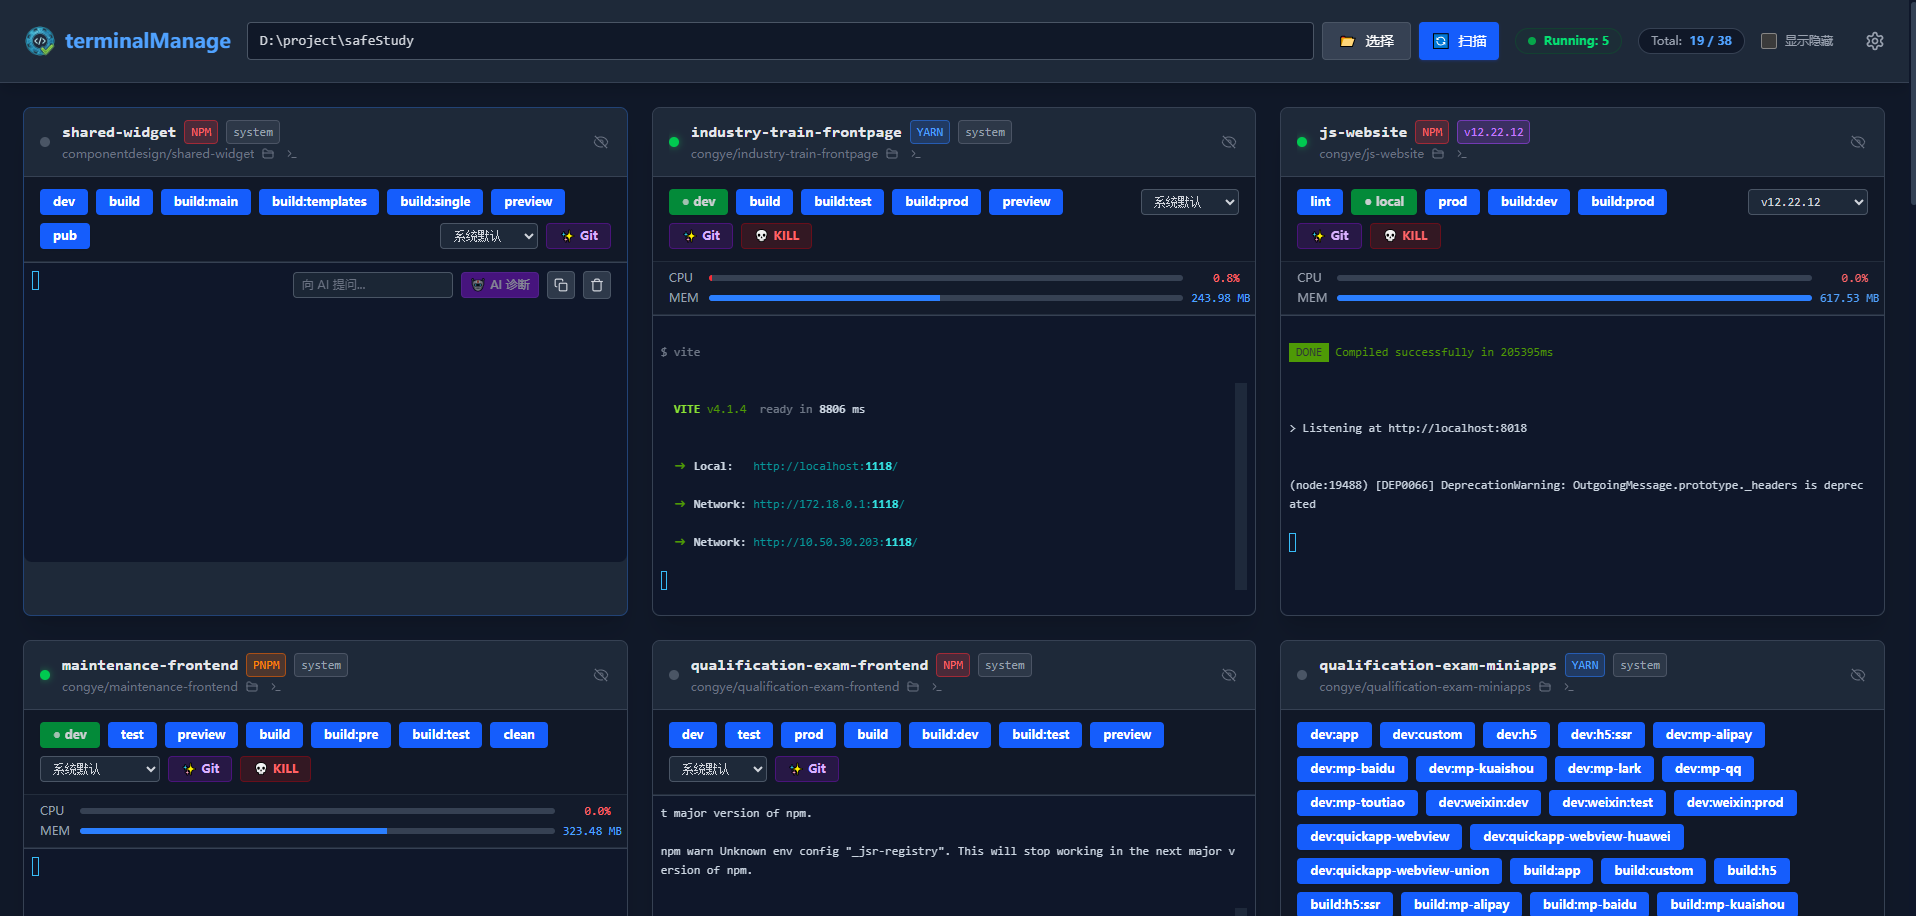
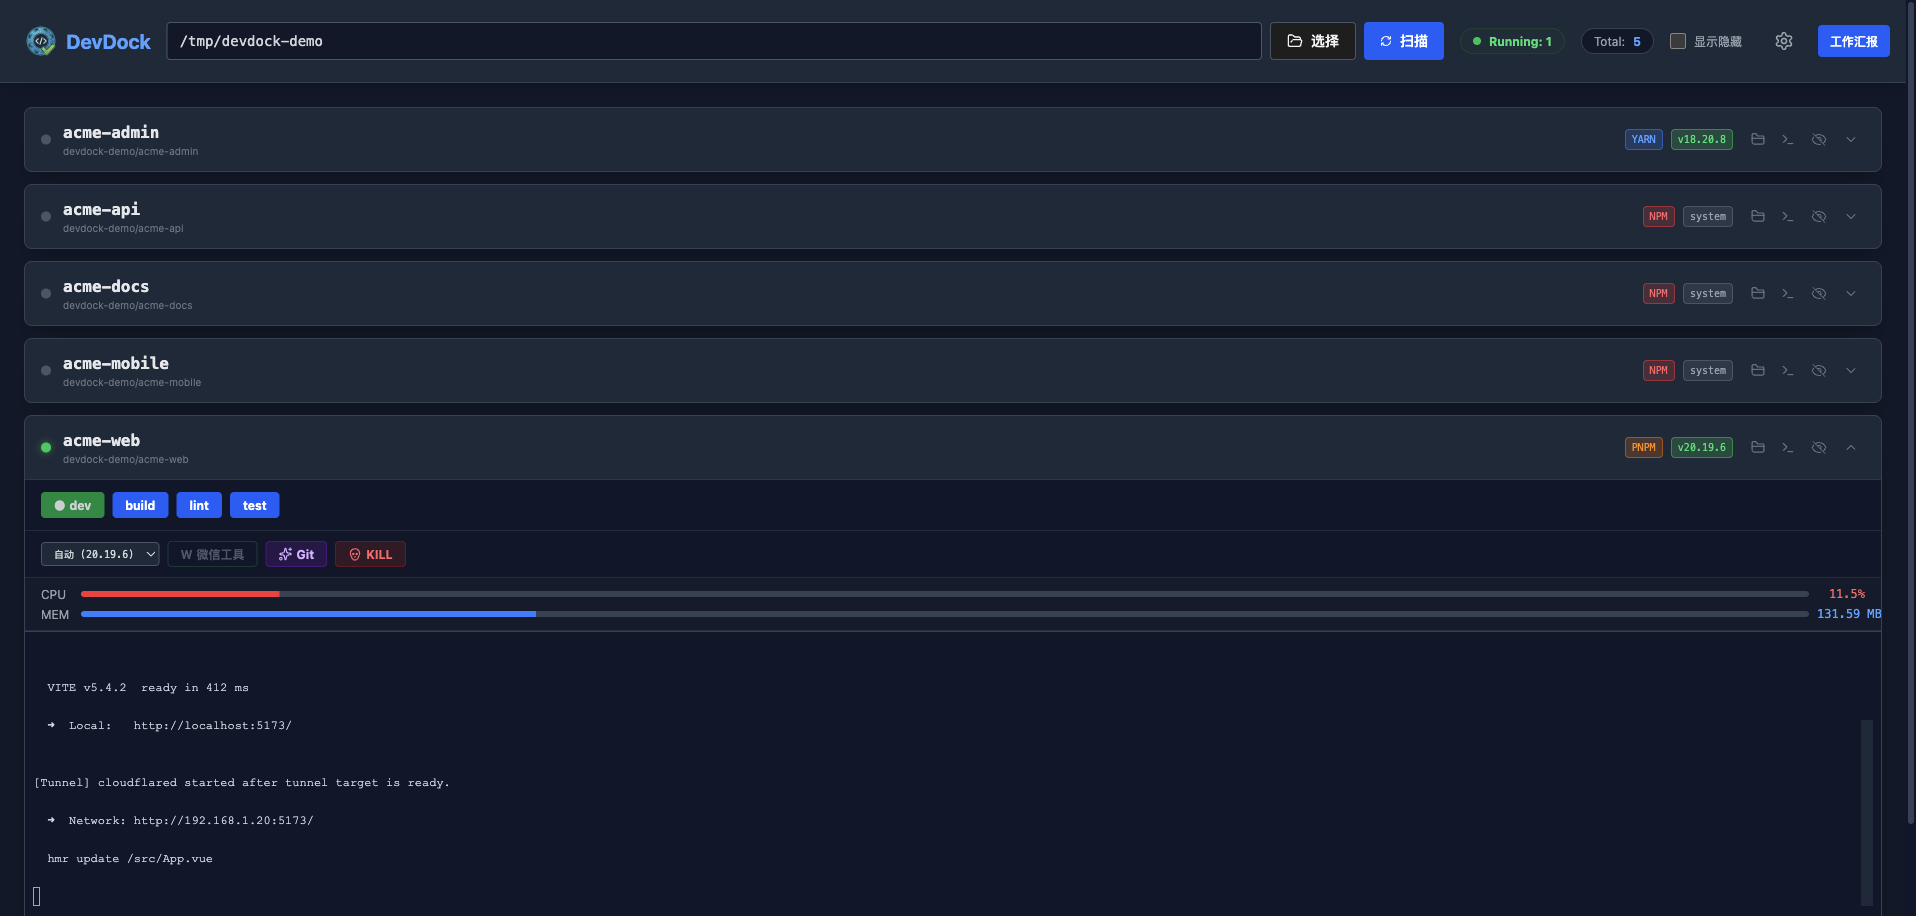
chore: 清理遗留命名引用，替换为当前项目的截图
清理
- 移除配置文件迁移逻辑：不再需要兼容 terminalManage 时期的文件名
- package.json 的 name 由 terminal-manage 改为 devdock
- 设置页 Public Domain 占位符由原项目域名改为 dev.example.com

截图
- example.png / terminalgif.gif / tunnel.png 全部换成本项目当前界面
- 拍摄时使用虚构的演示工作区（acme-web、acme-admin、acme-mobile 等），
  界面上的项目名与路径均为演示数据，不含真实本地路径
- GIF 为 24 帧、800x382，演示折叠展开、脚本运行、终端日志、
  CPU/内存监控与深色/浅色主题切换
- README 中恢复的截图区块指向这三个文件

验证：全仓已无 terminalManage / terminal-manage 残留；vue-tsc 与 build 通过。

diff --git a/server/index.js b/server/index.js
@@ -35,29 +35,6 @@ const CONFIG_PATH = path.join(os.homedir(), '.devdock-config.json');
 const WEEKLY_REPORT_STATE_PATH = path.join(os.homedir(), '.devdock-weekly-report.json');
 const WEEKLY_REPORT_CACHE_PATH = path.join(os.homedir(), '.devdock-weekly-report-cache.json');
 
-// 旧版本（terminalManage）的文件名 → 新文件名。
-// 首次启动时若新文件不存在而旧文件存在，则复制一份（旧文件保留作备份）。
-const LEGACY_FILE_RENAMES = [
-  ['.terminalManage-config.json', '.devdock-config.json'],
-  ['.terminalManage-weekly-report.json', '.devdock-weekly-report.json'],
-  ['.terminalManage-weekly-report-cache.json', '.devdock-weekly-report-cache.json']
-];
-
-const migrateLegacyFiles = () => {
-  for (const [legacyName, nextName] of LEGACY_FILE_RENAMES) {
-    const legacyPath = path.join(os.homedir(), legacyName);
-    const nextPath = path.join(os.homedir(), nextName);
-    try {
-      if (fs.existsSync(nextPath) || !fs.existsSync(legacyPath)) continue;
-      fs.copyFileSync(legacyPath, nextPath);
-      console.log("[migrate] " + legacyName + " -> " + nextName);
-    } catch (error) {
-      console.error("[migrate] 迁移 " + legacyName + " 失败:", error.message);
-    }
-  }
-};
-
-migrateLegacyFiles();
 const weeklyReportRuntime = createWeeklyReportRuntime({
   statePath: WEEKLY_REPORT_STATE_PATH,
   cachePath: WEEKLY_REPORT_CACHE_PATH

diff --git a/client/src/components/AiSettings.vue b/client/src/components/AiSettings.vue
@@ -364,7 +364,7 @@
                     v-model="tunnelConfig.publicDomain"
                     type="text"
                     class="w-full bg-surface-raised border border-gray-600 rounded px-3 py-2 text-sm text-gray-100 font-mono focus:border-cyan-500 focus:outline-none transition"
-                    placeholder="e.g. http://kuyep.indevs.in"
+                    placeholder="e.g. https://dev.example.com"
                   >
                 </div>
 
